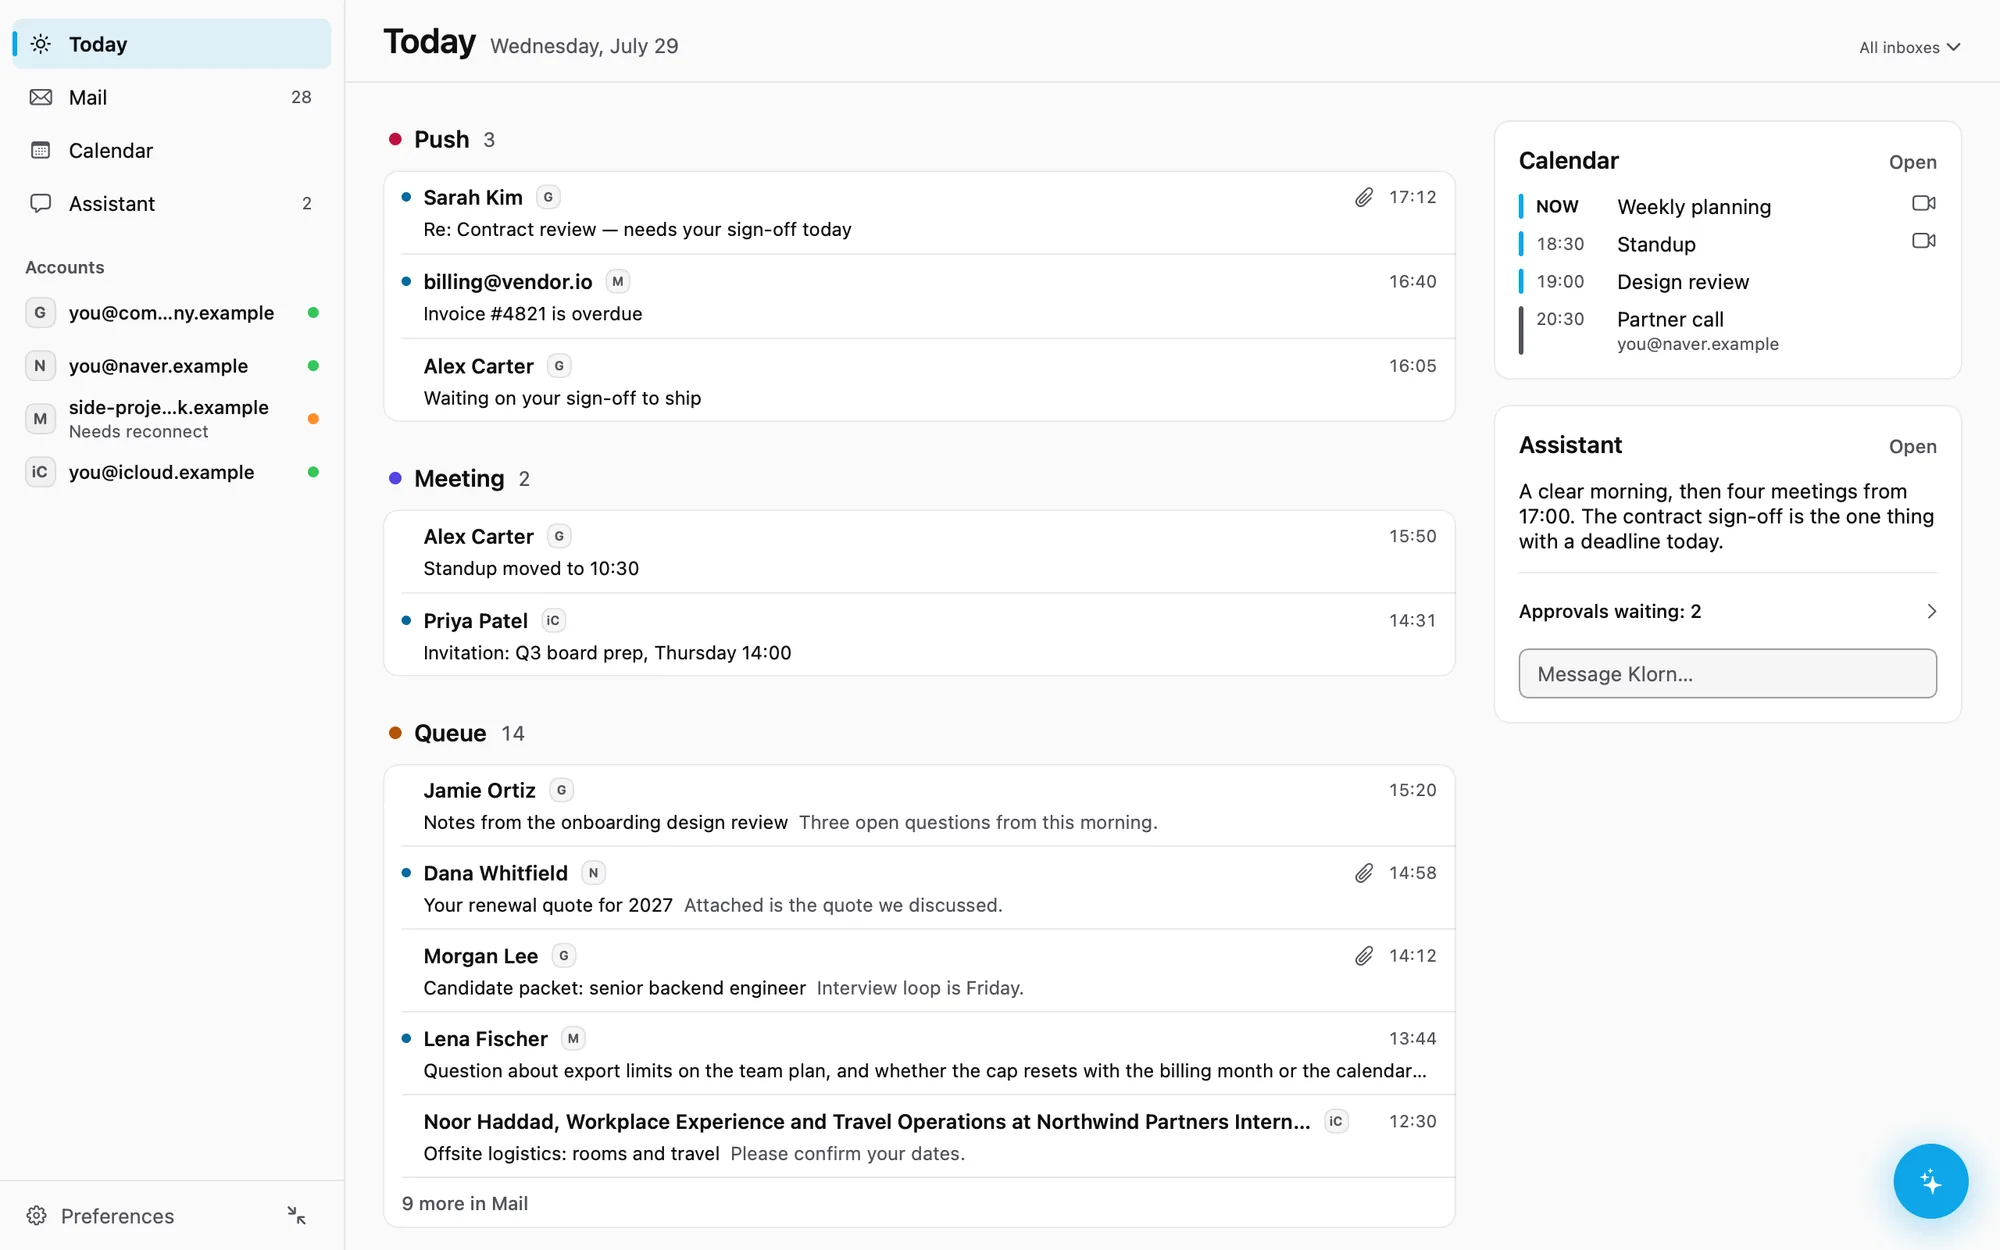
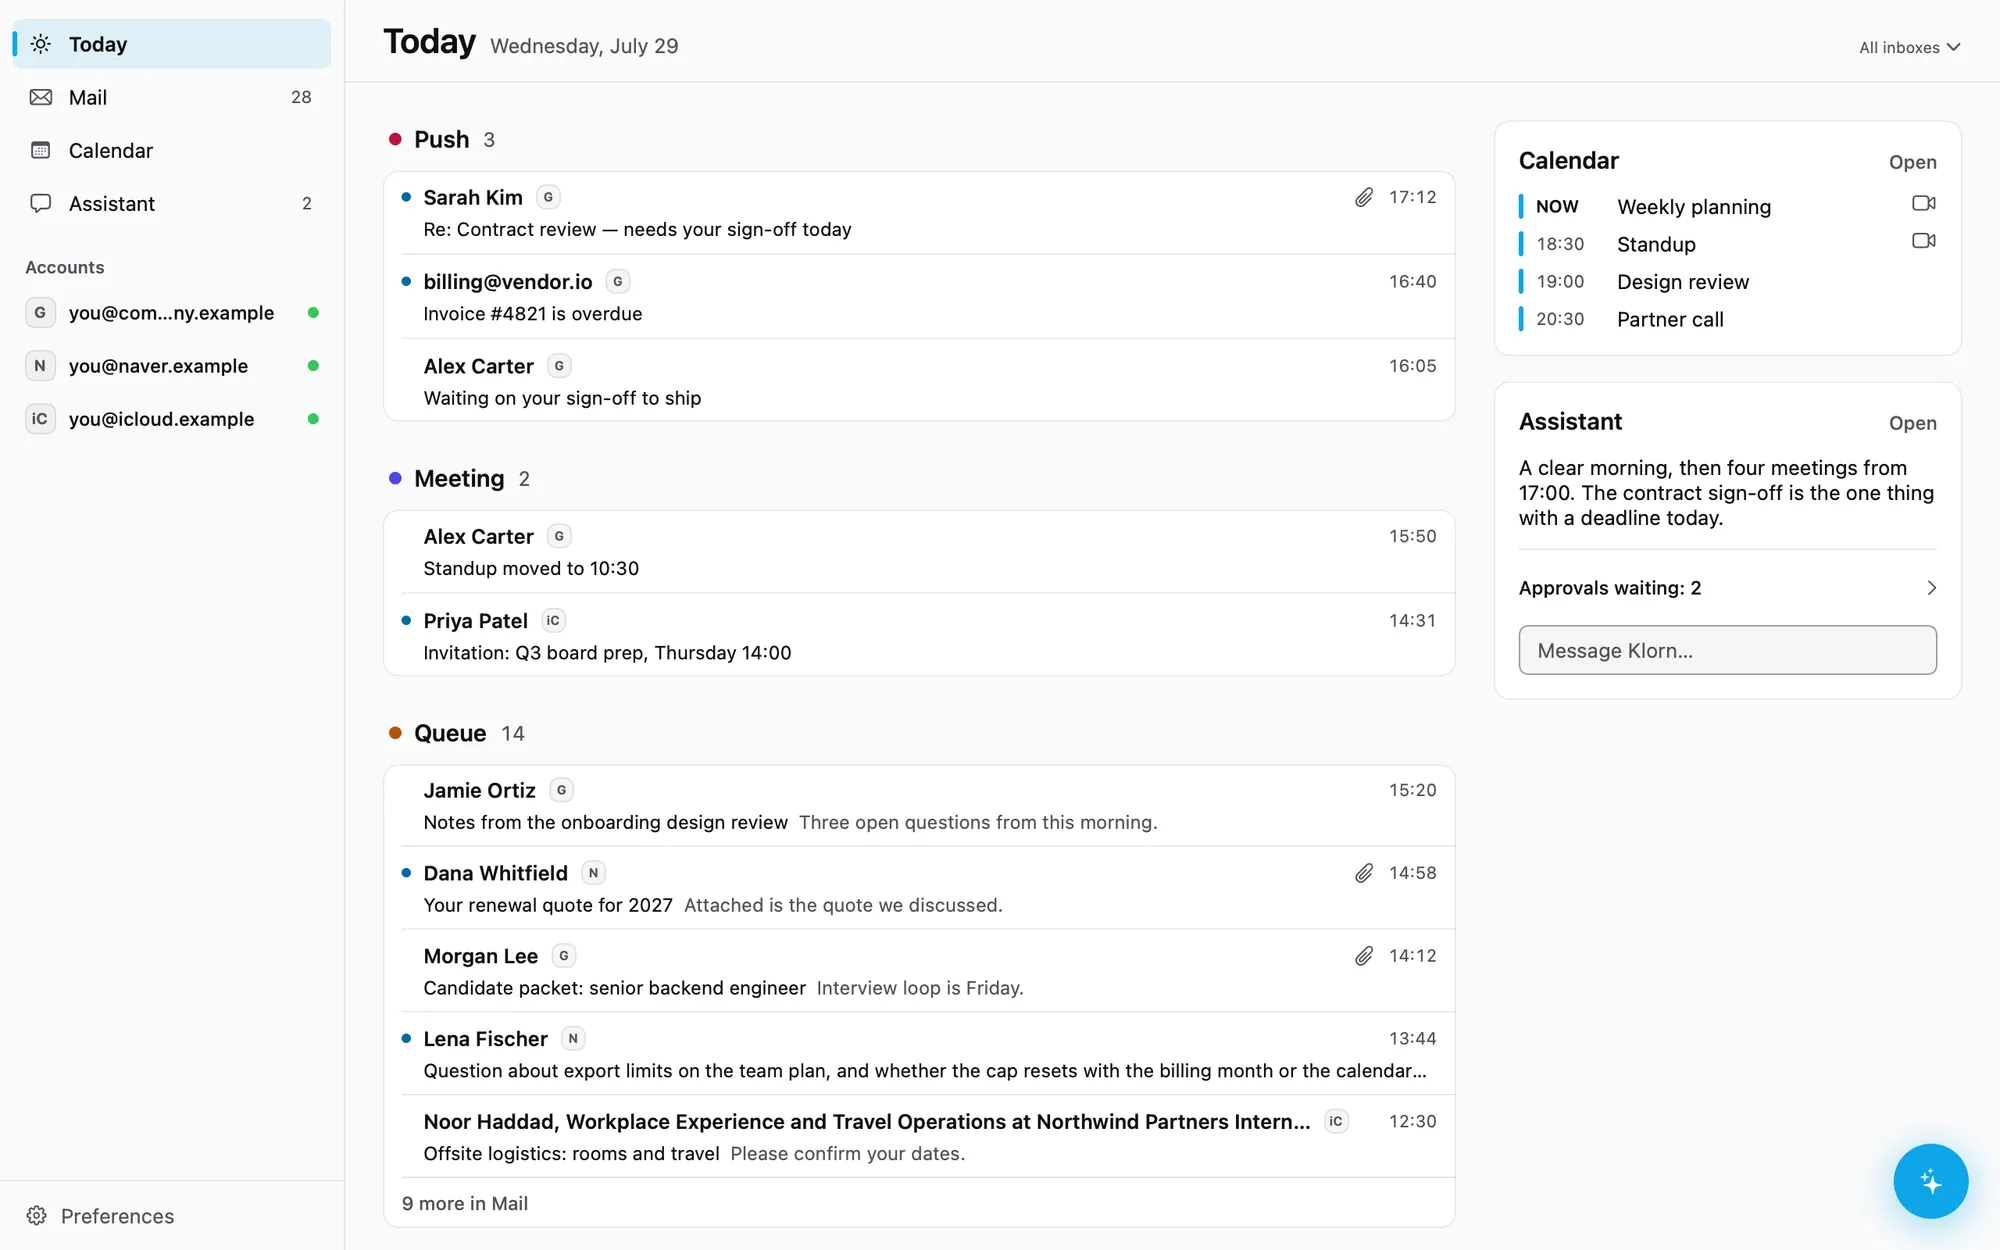
Deploying to gh-pages from @ k08200/klorn@e24c4ed3c149fca1954be49f273c24aa6e0be6ed 🚀

diff --git a/ja/index.html b/ja/index.html
@@ -219,7 +219,7 @@
       <img src="/media/app-2026-10/today-light-2000.webp"
            srcset="/media/app-2026-10/today-light-1200.webp 1200w, /media/app-2026-10/today-light-2000.webp 2000w, /media/app-2026-10/today-light-2560.webp 2560w"
            sizes="(min-width:1240px) 1176px, 94vw" width="2560" height="1600" fetchpriority="high" decoding="async"
-           alt="MacのKlorn「今日」画面：4つのアカウントのメールがPush、Meeting、Queueに分かれ、各行にアカウントの印が付き、横に今日の予定とアシスタントがあります。"></picture>
+           alt="MacのKlorn「今日」画面：3つのアカウントのメールがPush、Meeting、Queueに分かれ、各行にアカウントの印が付き、横に今日の予定とアシスタントがあります。"></picture>
     </div>
     <figcaption class="cap"><span class="demo-tag">デモデータ</span>Macの<b>今日</b>画面。接続したすべてのアカウントがひとつのリストに。</figcaption>
   </figure>
@@ -253,7 +253,7 @@
              sizes="(min-width:1240px) 1116px, 94vw" width="2000" height="1250" loading="lazy" decoding="async"
              alt="MacのKlornメール画面：複数のアカウントのメールがひとつのリストに混在し、各行に小さなアカウントバッジとレーンの表示があり、右側に開いたメールがあります。"></picture>
       </div>
-      <figcaption class="cap"><span class="demo-tag">デモデータ</span>画面に写っている一部のアカウントは、まだ接続できません。</figcaption>
+      <figcaption class="cap"><span class="demo-tag">デモデータ</span>Gmail、Naverメール、iCloudメールがひとつのリストに。</figcaption>
     </figure>
   </div>
 </section>

diff --git a/fr/index.html b/fr/index.html
@@ -219,7 +219,7 @@
       <img src="/media/app-2026-10/today-light-2000.webp"
            srcset="/media/app-2026-10/today-light-1200.webp 1200w, /media/app-2026-10/today-light-2000.webp 2000w, /media/app-2026-10/today-light-2560.webp 2560w"
            sizes="(min-width:1240px) 1176px, 94vw" width="2560" height="1600" fetchpriority="high" decoding="async"
-           alt="L’écran Aujourd’hui de Klorn sur Mac : des e-mails de quatre comptes regroupés en Push, Meeting et Queue, chaque ligne marquée de son compte, à côté de l’agenda du jour et de l’assistant."></picture>
+           alt="L’écran Aujourd’hui de Klorn sur Mac : des e-mails de trois comptes regroupés en Push, Meeting et Queue, chaque ligne marquée de son compte, à côté de l’agenda du jour et de l’assistant."></picture>
     </div>
     <figcaption class="cap"><span class="demo-tag">Données de démo</span><b>Aujourd’hui</b>, sur Mac. Une seule liste pour tous les comptes connectés.</figcaption>
   </figure>
@@ -254,7 +254,7 @@
              sizes="(min-width:1240px) 1116px, 94vw" width="2000" height="1250" loading="lazy" decoding="async"
              alt="L’écran Mail de Klorn sur Mac : une liste qui mélange les messages de plusieurs comptes, chacun avec un petit badge de compte et une étiquette de file, avec le message ouvert à droite."></picture>
       </div>
-      <figcaption class="cap"><span class="demo-tag">Données de démo</span>Certains comptes visibles ici ne peuvent pas encore être connectés.</figcaption>
+      <figcaption class="cap"><span class="demo-tag">Données de démo</span>Gmail, Naver Mail et iCloud Mail dans une seule liste.</figcaption>
     </figure>
   </div>
 </section>

diff --git a/ko/index.html b/ko/index.html
@@ -219,7 +219,7 @@
       <img src="/media/app-2026-10/today-light-2000.webp"
            srcset="/media/app-2026-10/today-light-1200.webp 1200w, /media/app-2026-10/today-light-2000.webp 2000w, /media/app-2026-10/today-light-2560.webp 2560w"
            sizes="(min-width:1240px) 1176px, 94vw" width="2560" height="1600" fetchpriority="high" decoding="async"
-           alt="Mac의 Klorn 오늘 화면: 네 개 계정의 메일이 Push, Meeting, Queue로 나뉘어 있고 각 행에 계정 표시가 붙어 있으며, 옆에 오늘 일정과 어시스턴트가 있습니다."></picture>
+           alt="Mac의 Klorn 오늘 화면: 세 개 계정의 메일이 Push, Meeting, Queue로 나뉘어 있고 각 행에 계정 표시가 붙어 있으며, 옆에 오늘 일정과 어시스턴트가 있습니다."></picture>
     </div>
     <figcaption class="cap"><span class="demo-tag">데모 데이터</span>Mac의 <b>오늘</b> 화면. 연결한 모든 계정이 한 목록에.</figcaption>
   </figure>
@@ -253,7 +253,7 @@
              sizes="(min-width:1240px) 1116px, 94vw" width="2000" height="1250" loading="lazy" decoding="async"
              alt="Mac의 Klorn 메일 화면: 여러 계정의 메일이 한 목록에 섞여 있고, 각 행에 계정 배지와 레인 표시가 있으며, 오른쪽에 열린 메일이 있습니다."></picture>
       </div>
-      <figcaption class="cap"><span class="demo-tag">데모 데이터</span>화면 속 일부 계정은 아직 연결할 수 없습니다.</figcaption>
+      <figcaption class="cap"><span class="demo-tag">데모 데이터</span>Gmail, 네이버 메일, iCloud 메일이 한 목록에.</figcaption>
     </figure>
   </div>
 </section>

diff --git a/es/index.html b/es/index.html
@@ -219,7 +219,7 @@
       <img src="/media/app-2026-10/today-light-2000.webp"
            srcset="/media/app-2026-10/today-light-1200.webp 1200w, /media/app-2026-10/today-light-2000.webp 2000w, /media/app-2026-10/today-light-2560.webp 2560w"
            sizes="(min-width:1240px) 1176px, 94vw" width="2560" height="1600" fetchpriority="high" decoding="async"
-           alt="La pantalla Hoy de Klorn en Mac: correo de cuatro cuentas agrupado en Push, Meeting y Queue, cada fila marcada con su cuenta, junto al calendario de hoy y el asistente."></picture>
+           alt="La pantalla Hoy de Klorn en Mac: correo de tres cuentas agrupado en Push, Meeting y Queue, cada fila marcada con su cuenta, junto al calendario de hoy y el asistente."></picture>
     </div>
     <figcaption class="cap"><span class="demo-tag">Datos de demostración</span><b>Hoy</b>, en Mac. Una sola lista con todas las cuentas conectadas.</figcaption>
   </figure>
@@ -254,7 +254,7 @@
              sizes="(min-width:1240px) 1116px, 94vw" width="2000" height="1250" loading="lazy" decoding="async"
              alt="La pantalla Correo de Klorn en Mac: una lista que mezcla mensajes de varias cuentas, cada uno con una pequeña insignia de cuenta y una etiqueta de carril, con el mensaje abierto a la derecha."></picture>
       </div>
-      <figcaption class="cap"><span class="demo-tag">Datos de demostración</span>Algunas cuentas que se ven aquí todavía no se pueden conectar.</figcaption>
+      <figcaption class="cap"><span class="demo-tag">Datos de demostración</span>Gmail, Naver Mail e iCloud Mail en una sola lista.</figcaption>
     </figure>
   </div>
 </section>

diff --git a/de/index.html b/de/index.html
@@ -219,7 +219,7 @@
       <img src="/media/app-2026-10/today-light-2000.webp"
            srcset="/media/app-2026-10/today-light-1200.webp 1200w, /media/app-2026-10/today-light-2000.webp 2000w, /media/app-2026-10/today-light-2560.webp 2560w"
            sizes="(min-width:1240px) 1176px, 94vw" width="2560" height="1600" fetchpriority="high" decoding="async"
-           alt="Klorns Heute-Ansicht auf dem Mac: Mails aus vier Konten, gruppiert in Push, Meeting und Queue, jede Zeile mit ihrem Konto markiert, neben dem heutigen Kalender und dem Assistenten."></picture>
+           alt="Klorns Heute-Ansicht auf dem Mac: Mails aus drei Konten, gruppiert in Push, Meeting und Queue, jede Zeile mit ihrem Konto markiert, neben dem heutigen Kalender und dem Assistenten."></picture>
     </div>
     <figcaption class="cap"><span class="demo-tag">Demodaten</span><b>Heute</b>, auf dem Mac. Eine Liste über alle verbundenen Konten.</figcaption>
   </figure>
@@ -254,7 +254,7 @@
              sizes="(min-width:1240px) 1116px, 94vw" width="2000" height="1250" loading="lazy" decoding="async"
              alt="Klorns Mail-Ansicht auf dem Mac: eine Liste mit Nachrichten aus mehreren Konten, jede mit einem kleinen Konto-Abzeichen und einem Spur-Label, rechts die geöffnete Nachricht."></picture>
       </div>
-      <figcaption class="cap"><span class="demo-tag">Demodaten</span>Einige der hier gezeigten Konten lassen sich noch nicht verbinden.</figcaption>
+      <figcaption class="cap"><span class="demo-tag">Demodaten</span>Gmail, Naver Mail und iCloud Mail in einer Liste.</figcaption>
     </figure>
   </div>
 </section>

diff --git a/index.html b/index.html
@@ -219,7 +219,7 @@
       <img src="/media/app-2026-10/today-light-2000.webp"
            srcset="/media/app-2026-10/today-light-1200.webp 1200w, /media/app-2026-10/today-light-2000.webp 2000w, /media/app-2026-10/today-light-2560.webp 2560w"
            sizes="(min-width:1240px) 1176px, 94vw" width="2560" height="1600" fetchpriority="high" decoding="async"
-           alt="Klorn’s Today screen on Mac: mail from four accounts grouped into Push, Meeting and Queue, each row marked with its account, beside today’s calendar and the assistant."></picture>
+           alt="Klorn’s Today screen on Mac: mail from three accounts grouped into Push, Meeting and Queue, each row marked with its account, beside today’s calendar and the assistant."></picture>
     </div>
     <figcaption class="cap"><span class="demo-tag">Demo data</span><b>Today</b>, on Mac. One list across every connected account.</figcaption>
   </figure>
@@ -254,7 +254,7 @@
              sizes="(min-width:1240px) 1116px, 94vw" width="2000" height="1250" loading="lazy" decoding="async"
              alt="Klorn’s Mail screen on Mac: one list mixing messages from several accounts, each with a small account badge and a lane label, with the open message on the right."></picture>
       </div>
-      <figcaption class="cap"><span class="demo-tag">Demo data</span>Some accounts shown here can&rsquo;t be connected yet.</figcaption>
+      <figcaption class="cap"><span class="demo-tag">Demo data</span>Gmail, Naver Mail and iCloud Mail in one list.</figcaption>
     </figure>
   </div>
 </section>

diff --git a/zh/index.html b/zh/index.html
@@ -219,7 +219,7 @@
       <img src="/media/app-2026-10/today-light-2000.webp"
            srcset="/media/app-2026-10/today-light-1200.webp 1200w, /media/app-2026-10/today-light-2000.webp 2000w, /media/app-2026-10/today-light-2560.webp 2560w"
            sizes="(min-width:1240px) 1176px, 94vw" width="2560" height="1600" fetchpriority="high" decoding="async"
-           alt="Mac 上 Klorn 的“今天”界面：来自四个账户的邮件分为 Push、Meeting 和 Queue，每行标注所属账户，旁边是今天的日程和助手。"></picture>
+           alt="Mac 上 Klorn 的“今天”界面：来自三个账户的邮件分为 Push、Meeting 和 Queue，每行标注所属账户，旁边是今天的日程和助手。"></picture>
     </div>
     <figcaption class="cap"><span class="demo-tag">演示数据</span>Mac 上的<b>今天</b>界面。所有已连接账户汇成一个列表。</figcaption>
   </figure>
@@ -253,7 +253,7 @@
              sizes="(min-width:1240px) 1116px, 94vw" width="2000" height="1250" loading="lazy" decoding="async"
              alt="Mac 上 Klorn 的邮件界面：多个账户的邮件混在一个列表中，每行带有账户小标记和分类标签，右侧是打开的邮件。"></picture>
       </div>
-      <figcaption class="cap"><span class="demo-tag">演示数据</span>图中部分账户目前还无法连接。</figcaption>
+      <figcaption class="cap"><span class="demo-tag">演示数据</span>Gmail、Naver 邮箱和 iCloud 邮件汇成一个列表。</figcaption>
     </figure>
   </div>
 </section>
